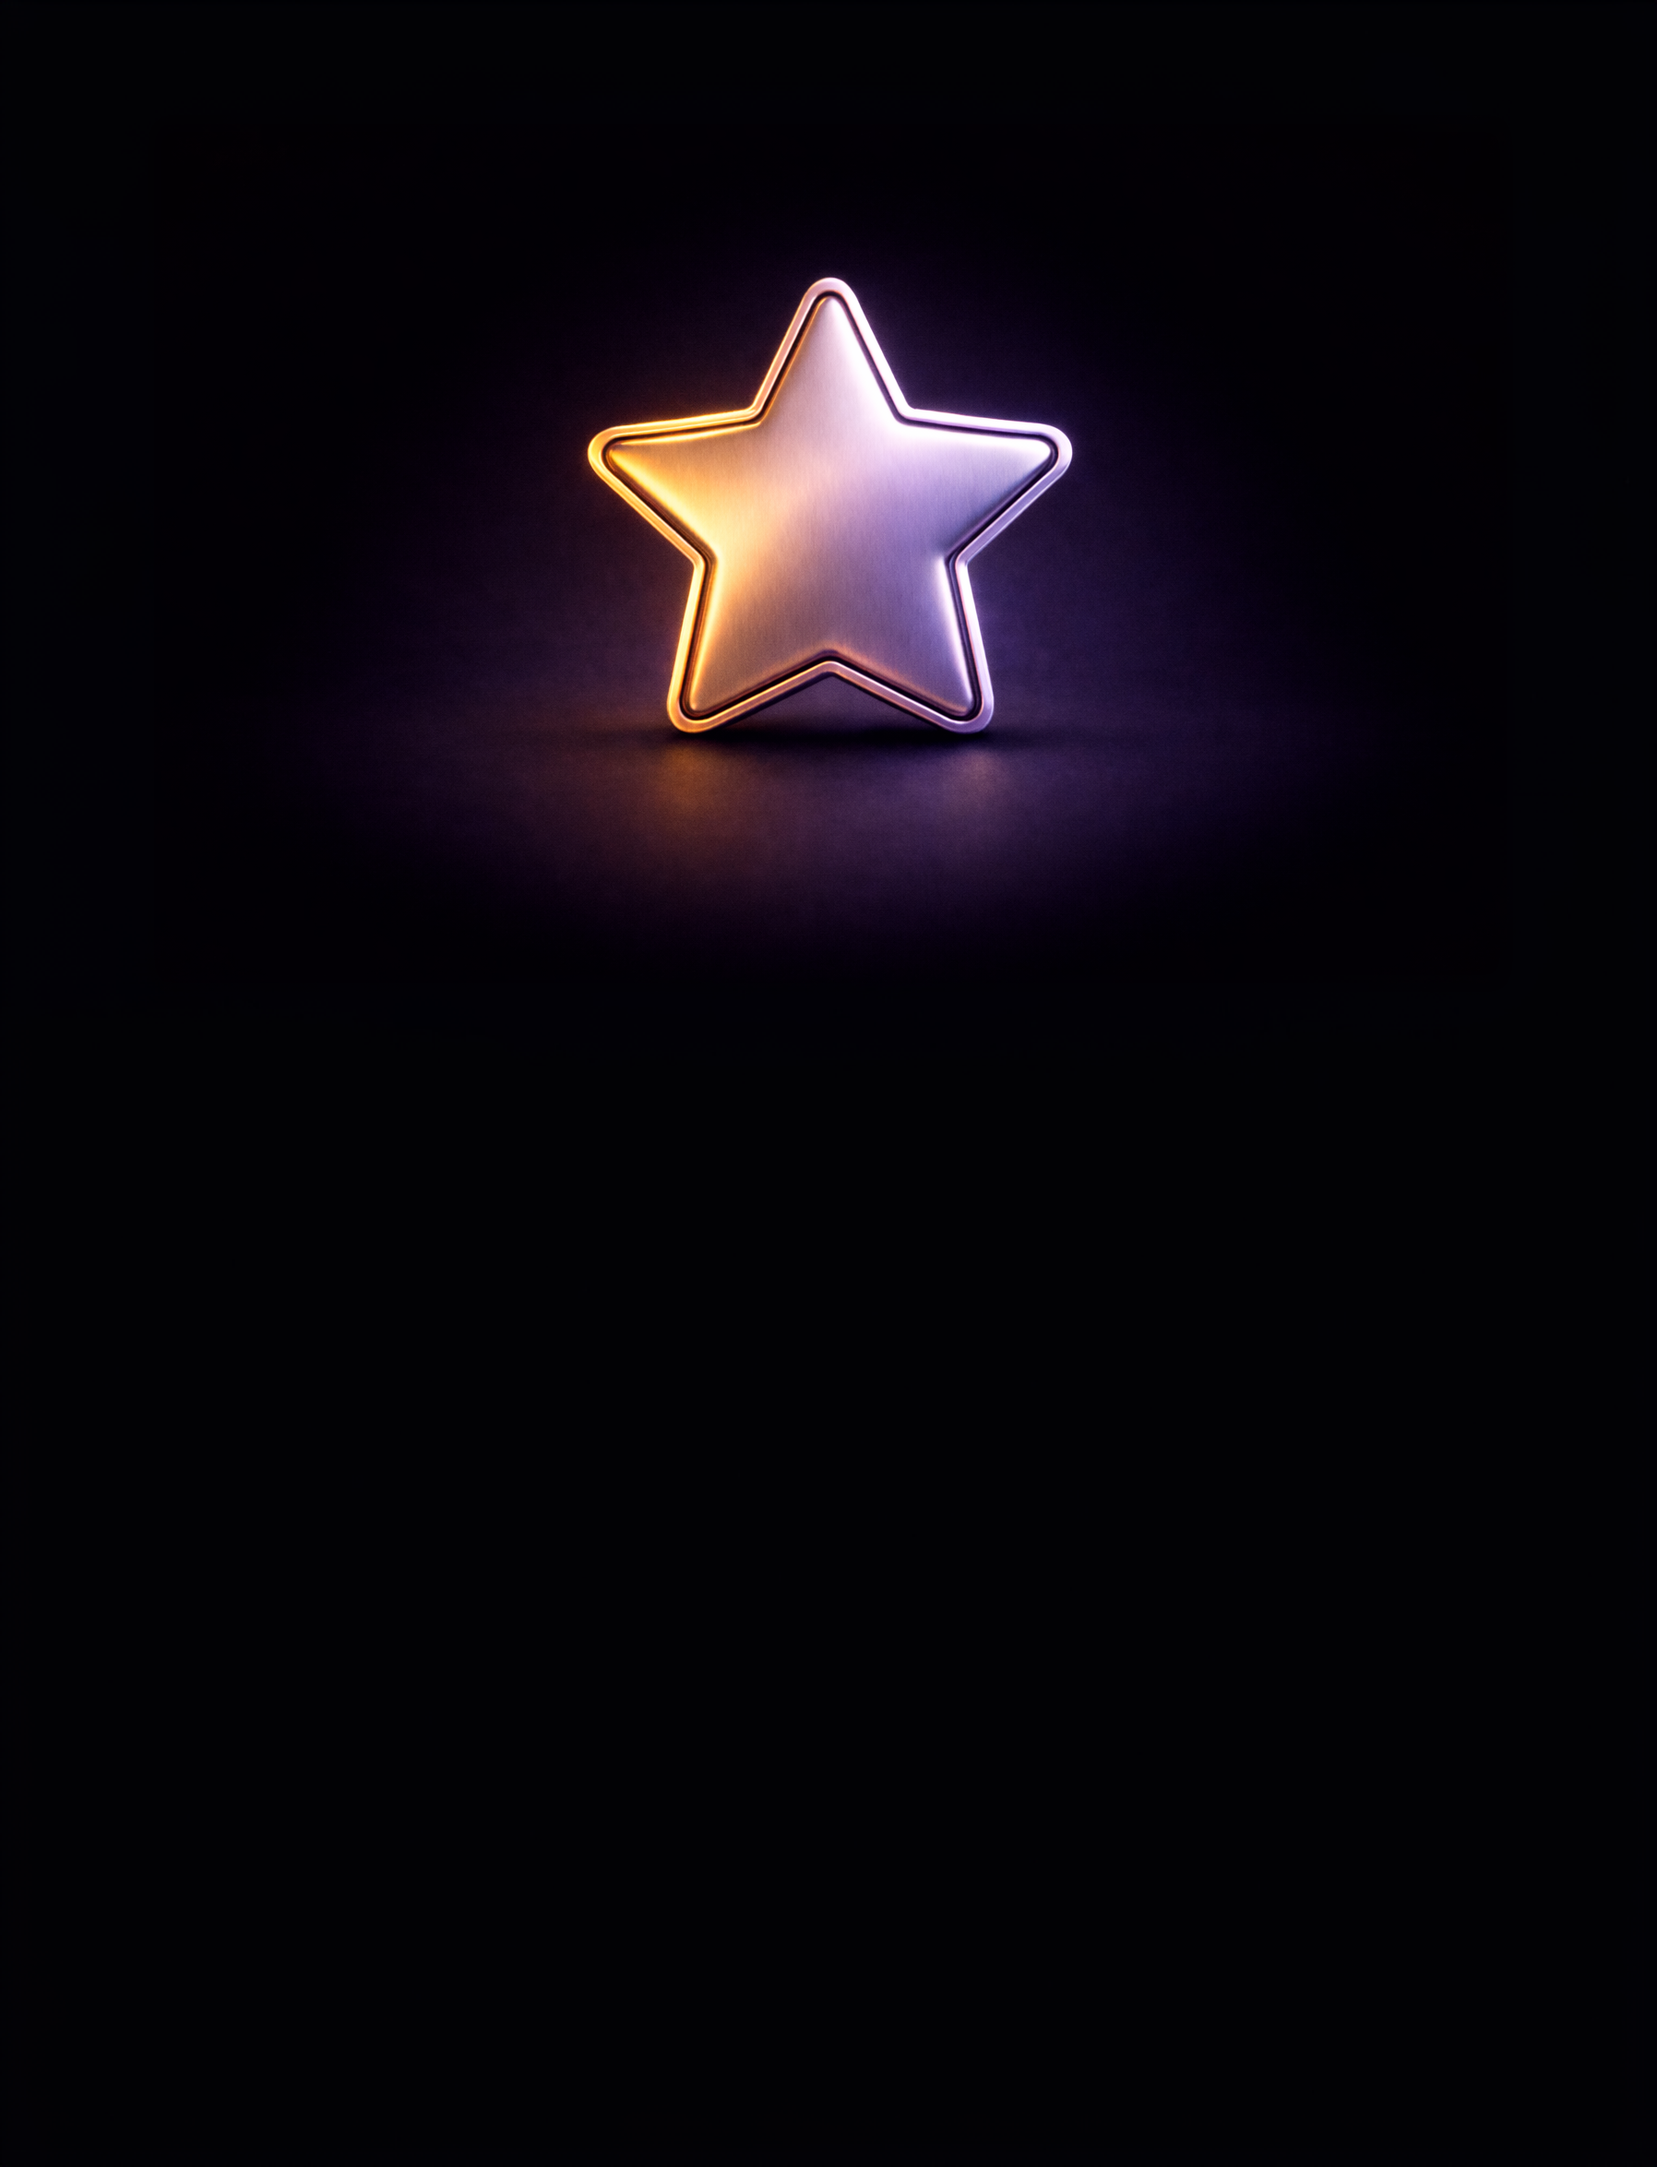
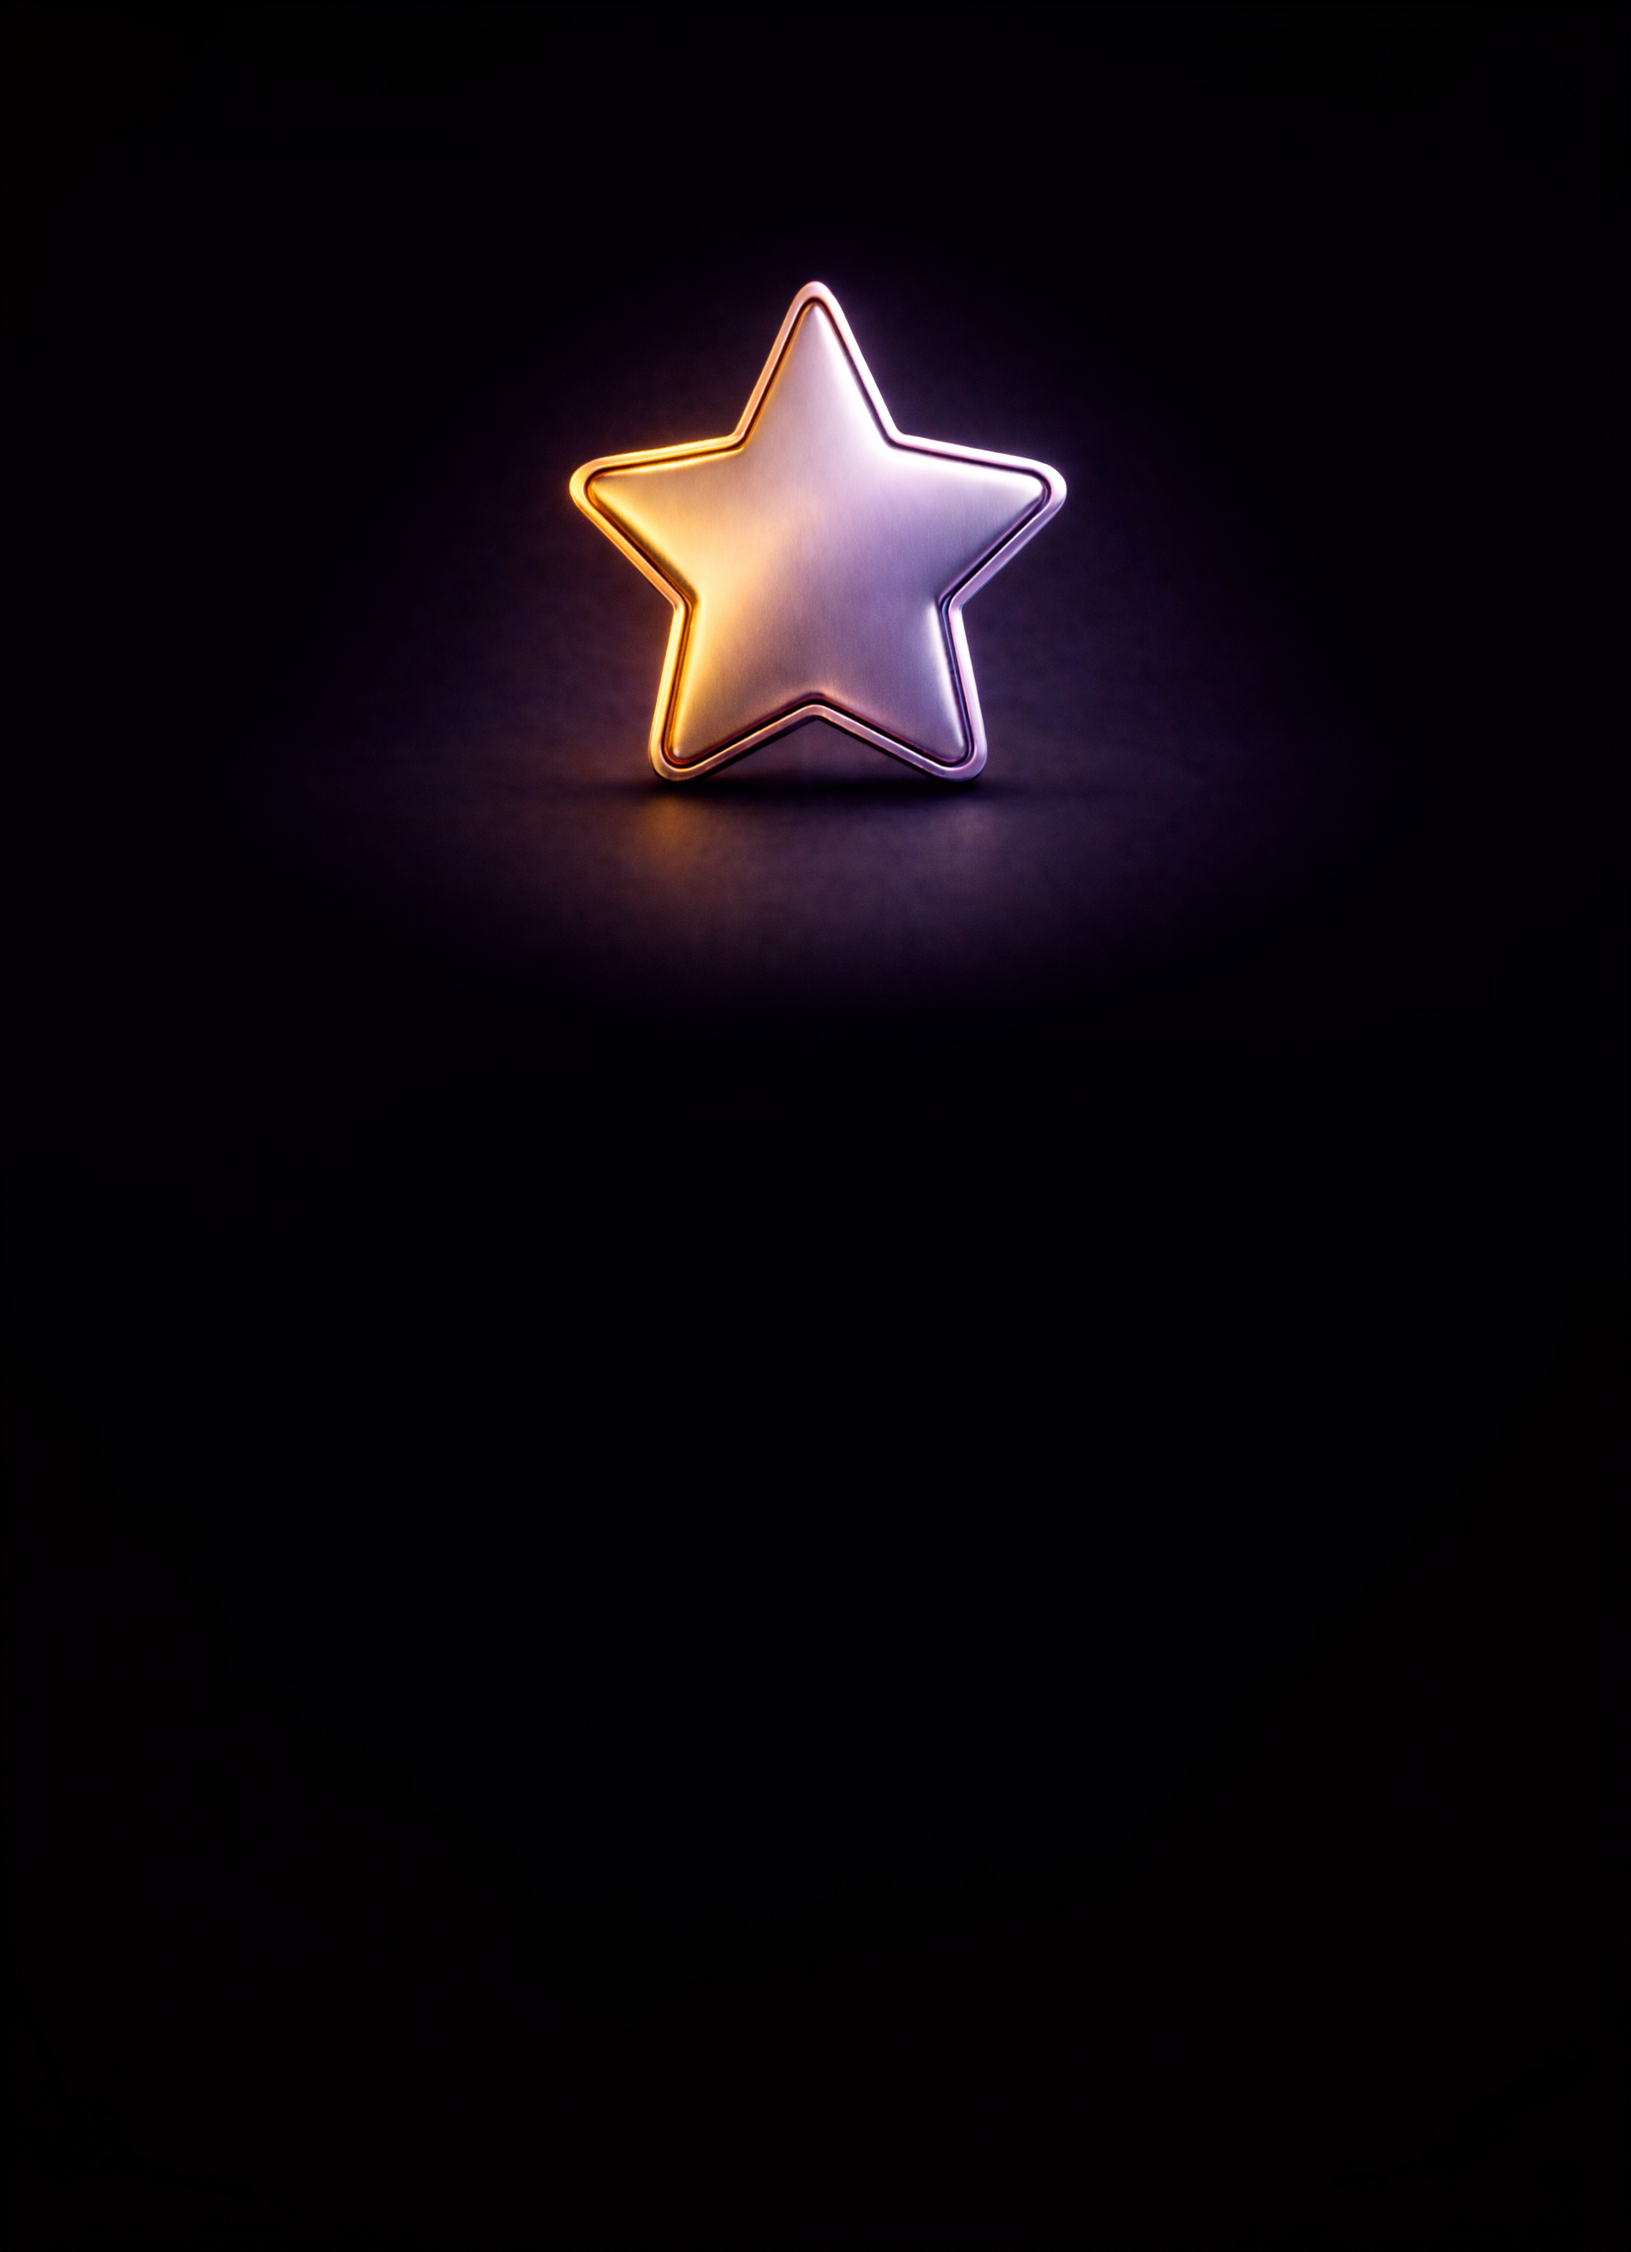
Design review 06.04.26: обновление ассетов и страниц home/products
Made-with: Cursor

Changed region(s): [[0.3422, 0.1865, 0.6533, 0.404], [0.4666, 0.1243, 0.5288, 0.1865]]

diff --git a/src/widgets/products-page/ui/products-page.tsx b/src/widgets/products-page/ui/products-page.tsx
@@ -14,6 +14,7 @@ const FinamDiaryLogo = () => (
 
 interface ProductCardProps {
   backgroundImage: string;
+  backgroundTranslateX?: string;
   title: React.ReactNode;
   subtitle: React.ReactNode;
   buttonText: string;
@@ -22,6 +23,7 @@ interface ProductCardProps {
 
 const ProductCard: React.FC<ProductCardProps> = ({
   backgroundImage,
+  backgroundTranslateX,
   title,
   subtitle,
   buttonText,
@@ -32,8 +34,13 @@ const ProductCard: React.FC<ProductCardProps> = ({
     onClick={onClick}
   >
     <div 
-      className="absolute inset-0 bg-cover bg-center"
-      style={{ backgroundImage: `url(${backgroundImage})` }}
+      className="absolute inset-0 bg-cover bg-center bg-no-repeat"
+      style={{
+        backgroundImage: `url(${backgroundImage})`,
+        ...(backgroundTranslateX
+          ? { transform: `translateX(${backgroundTranslateX})` }
+          : {}),
+      }}
     />
     <div 
       className="absolute inset-0"
@@ -118,7 +125,8 @@ export const ProductsPage: React.FC = () => {
 
               {/* Prediction Market Card */}
               <ProductCard
-                backgroundImage="/assets/products/prediction-bg.png"
+                backgroundImage="/assets/products/prediction-bg.png?v=2"
+                backgroundTranslateX="-60px"
                 title={
                   <h3 className="font-inter-tight font-medium text-[20px] text-white leading-[23px] tracking-[-0.32px]">
                     Prediction Market

diff --git a/src/widgets/home-page/ui/home-page.tsx b/src/widgets/home-page/ui/home-page.tsx
@@ -376,10 +376,13 @@ export const HomePage: React.FC = () => {
 
         {/* Raffle Block */}
         <div 
-          className="absolute top-[510px] left-[20px] right-[20px] inline-flex flex-col justify-center items-start gap-[15px] rounded-[8px] cursor-pointer"
+          className="absolute top-[510px] left-[20px] right-[20px] flex flex-col justify-center items-start gap-[15px] overflow-hidden rounded-[8px] cursor-pointer bg-[#1A1A1F]"
           style={{
             padding: '26px 22px 26px 165px',
-            background: 'url(/assets/products/tickets.png) lightgray -1px -0.393px / 100.844% 138.198% no-repeat',
+            backgroundImage: 'url(/assets/products/tickets.png?v=2)',
+            backgroundRepeat: 'no-repeat',
+            backgroundPosition: 'left center',
+            backgroundSize: 'cover',
           }}
           onClick={() => window.open('https://finam.ru/landing/mtw', '_blank')}
         >
